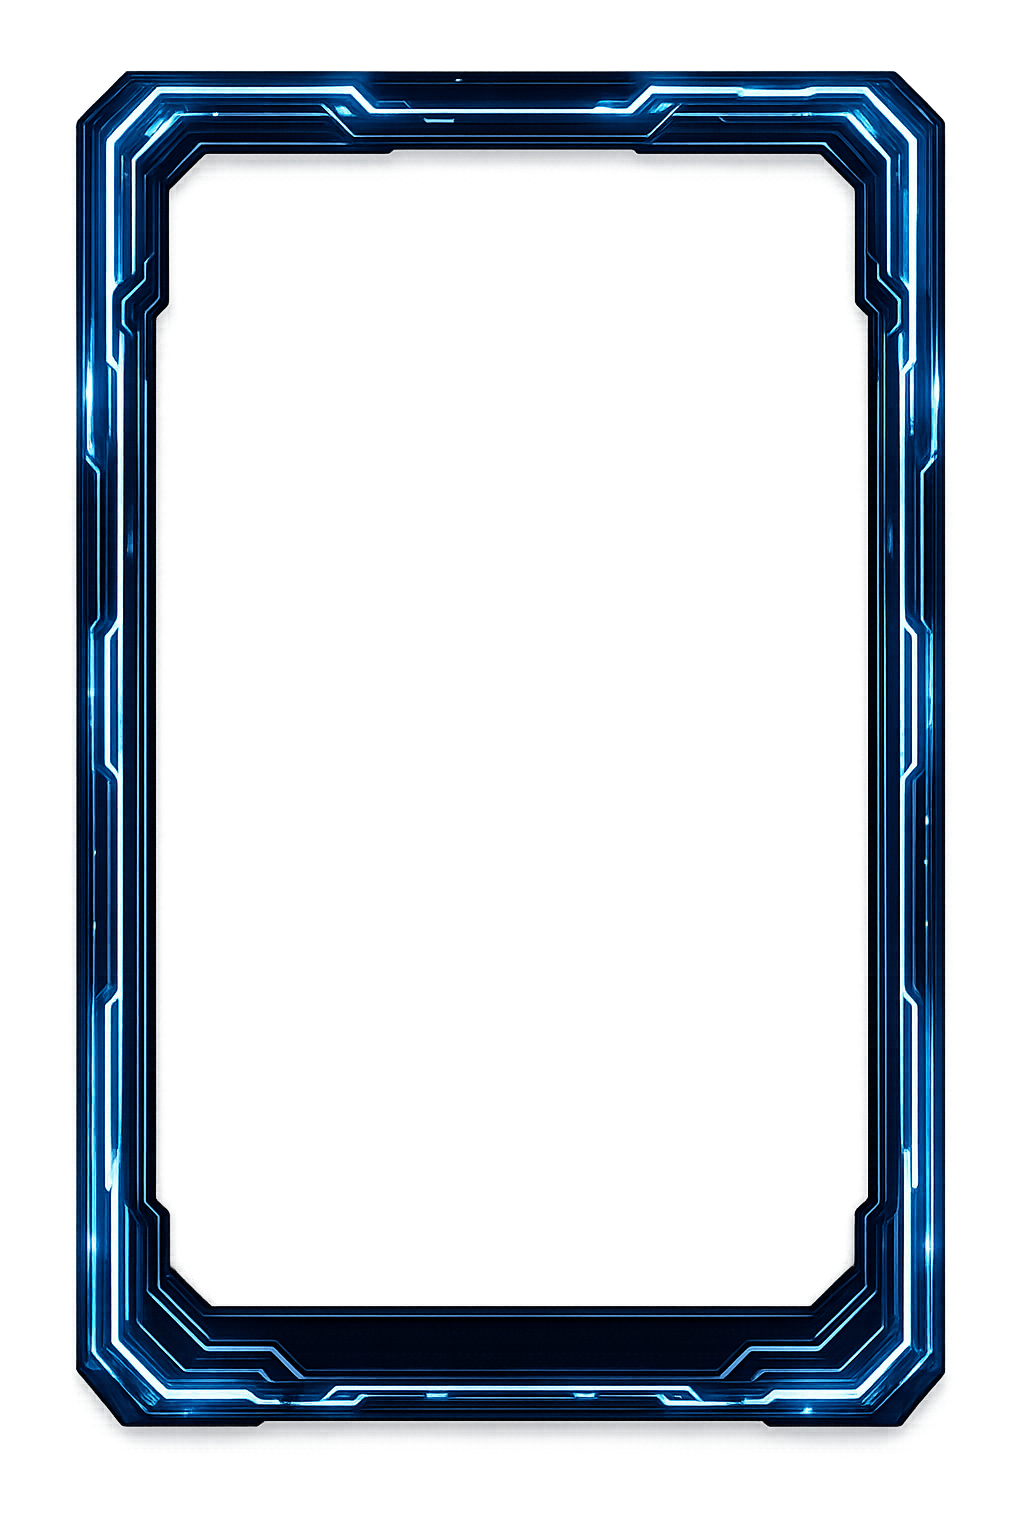
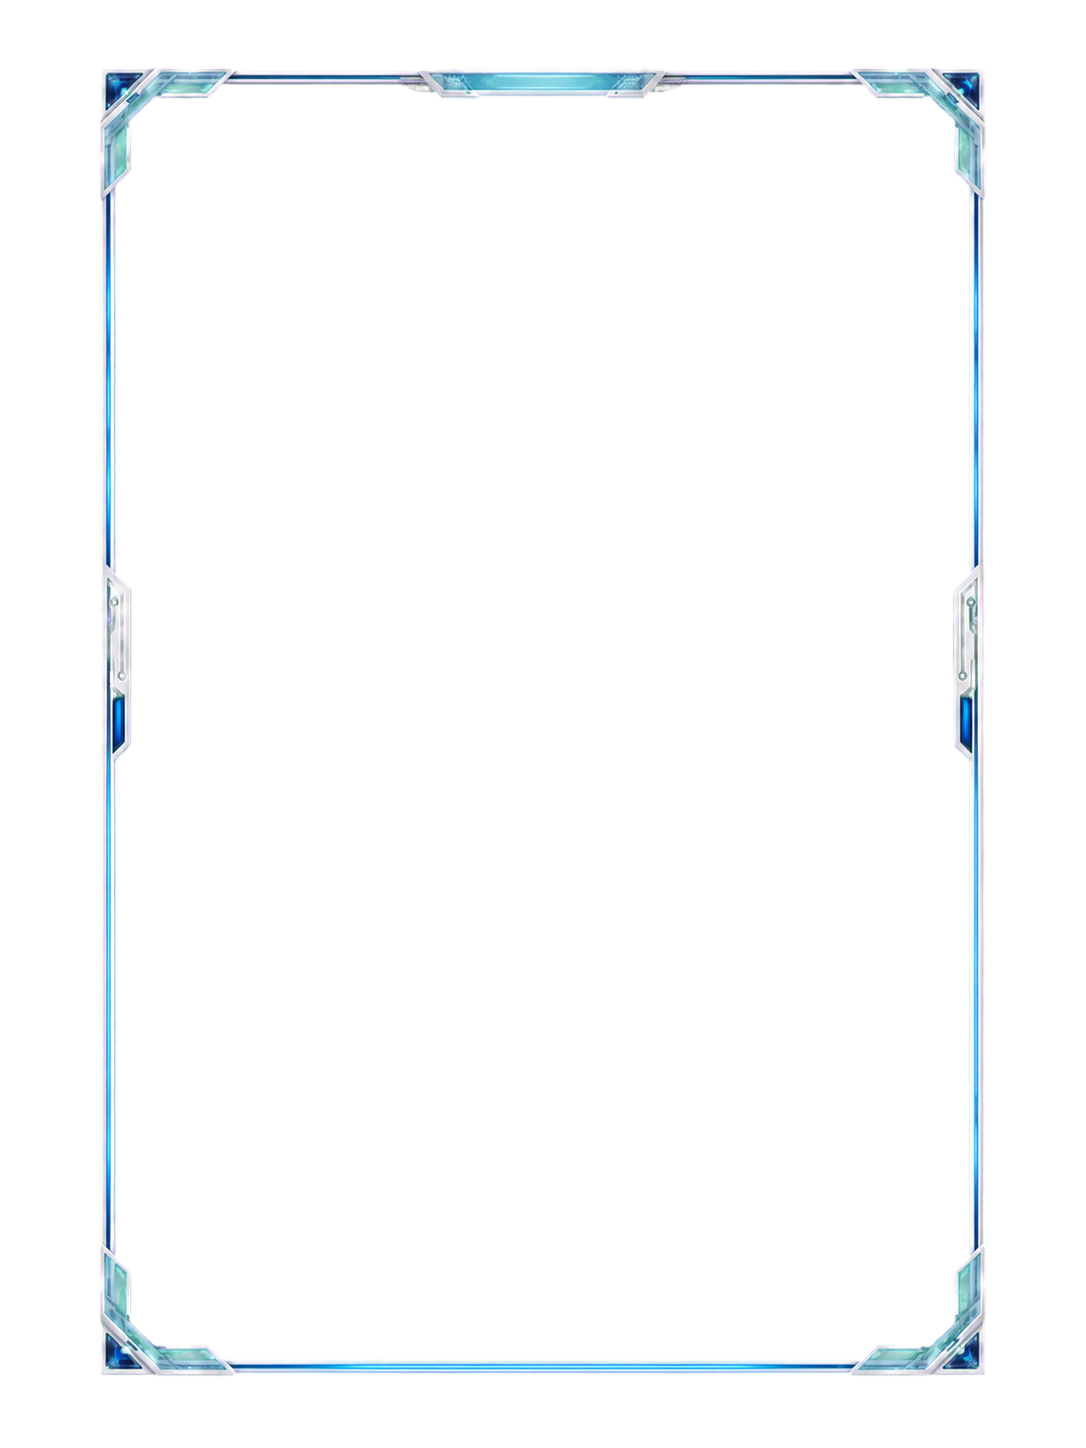
Update portfolio project images

Changed region(s): [[0.0625, 0.0311, 0.9375, 0.9634]]

diff --git a/images/README.md b/images/README.md
@@ -1,0 +1,16 @@
+# Replace these image placeholders
+
+Add your own, licensed photographs using these exact filenames:
+
+- `hero-winter-event.jpg` — winter event venue or ice/snow event
+- `hero-ski-resort.jpg` — Japanese ski resort or mountain
+- `hero-event-operations.jpg` — sport event operations
+- `beijing-project.jpg` — your Beijing 2022 project photo
+- `ski-research.jpg` — your ski resort fieldwork
+- `yuru-sports.jpg` — your Yuru Sports operations photo
+- `community-sports.jpg` — community sport or youth sumo event
+- `profile.jpg` — professional portrait
+
+Recommended: JPG or WebP, at least 1600 px wide for hero/research images and
+800 px wide for cards. The site shows designed fallback panels if files are
+missing.
